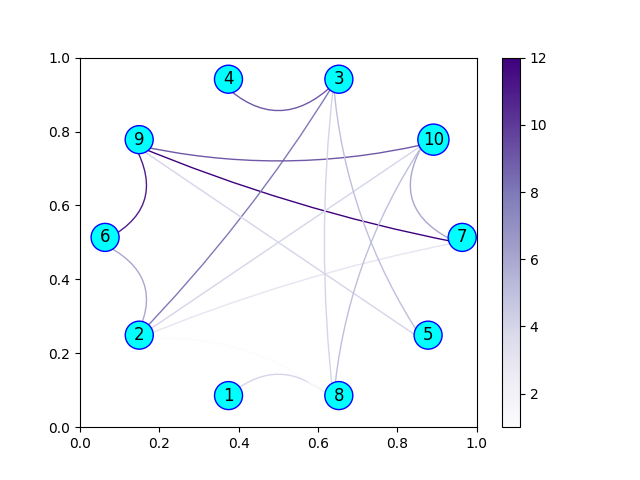
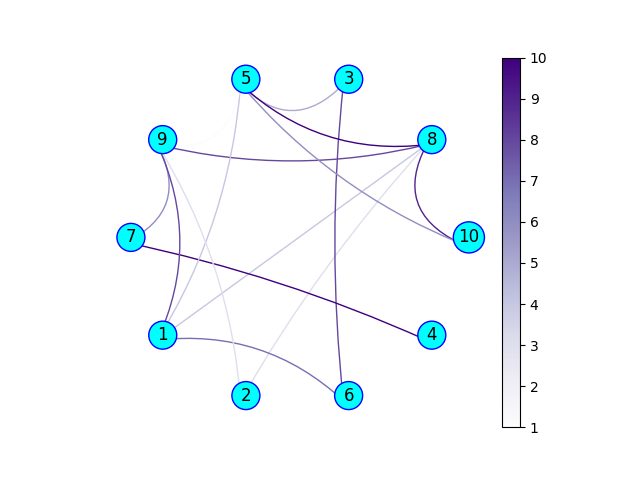
aspect-ratio fixed, outline removed

diff --git a/src/itemnetwork/visualization.py b/src/itemnetwork/visualization.py
@@ -131,6 +131,15 @@ def quick_plot(network: LinkedNetwork, fig: plt.Figure, ax: plt.Axes, bbox_style
     :param network: filled LinkedNetwork to use as a base
     :return:
     """
+    ax.set_xticks([])
+    ax.set_yticks([])
+    ax.set_yticklabels([])
+    ax.set_xticklabels([])
+    ax.set_aspect('equal')
+    ax.spines['top'].set_visible(False)
+    ax.spines['right'].set_visible(False)
+    ax.spines['bottom'].set_visible(False)
+    ax.spines['left'].set_visible(False)
     if bbox_style is None:
         bbox_style = dict(boxstyle='circle', pad=0.3, fc='cyan', ec='b')
     color_map = _make_colour_map(network)
